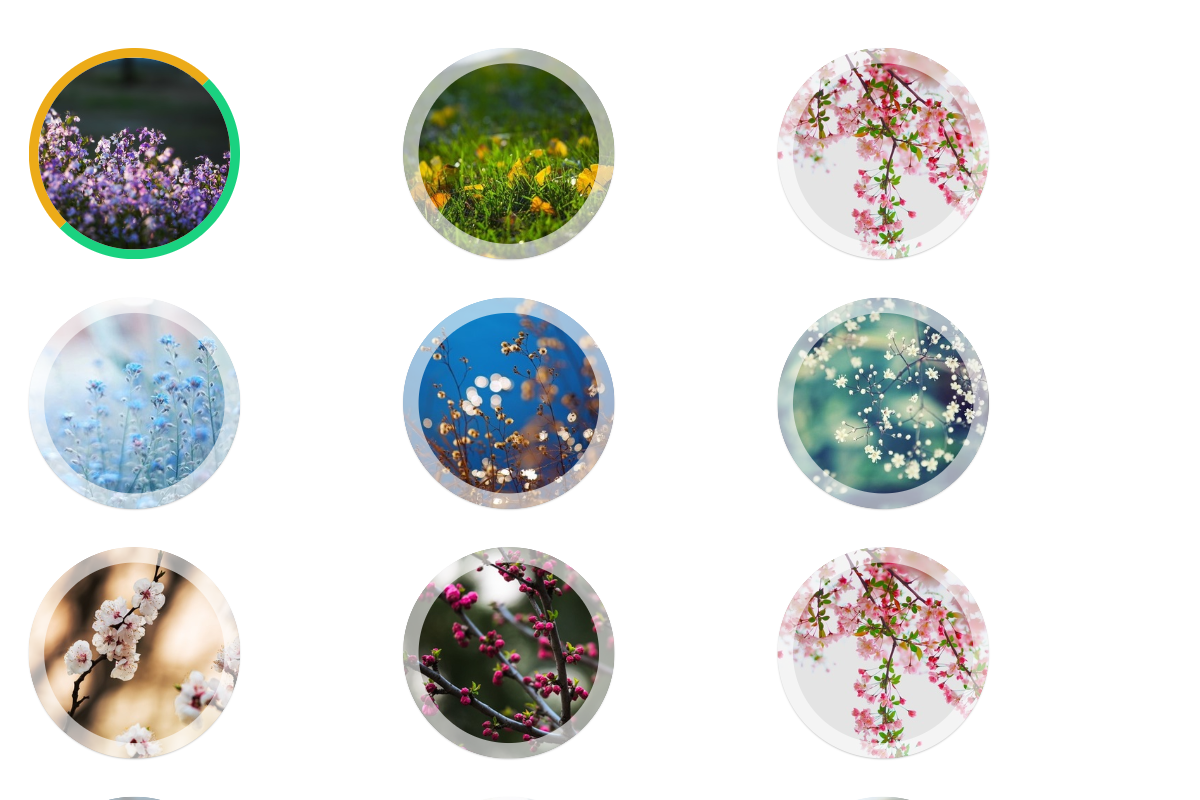
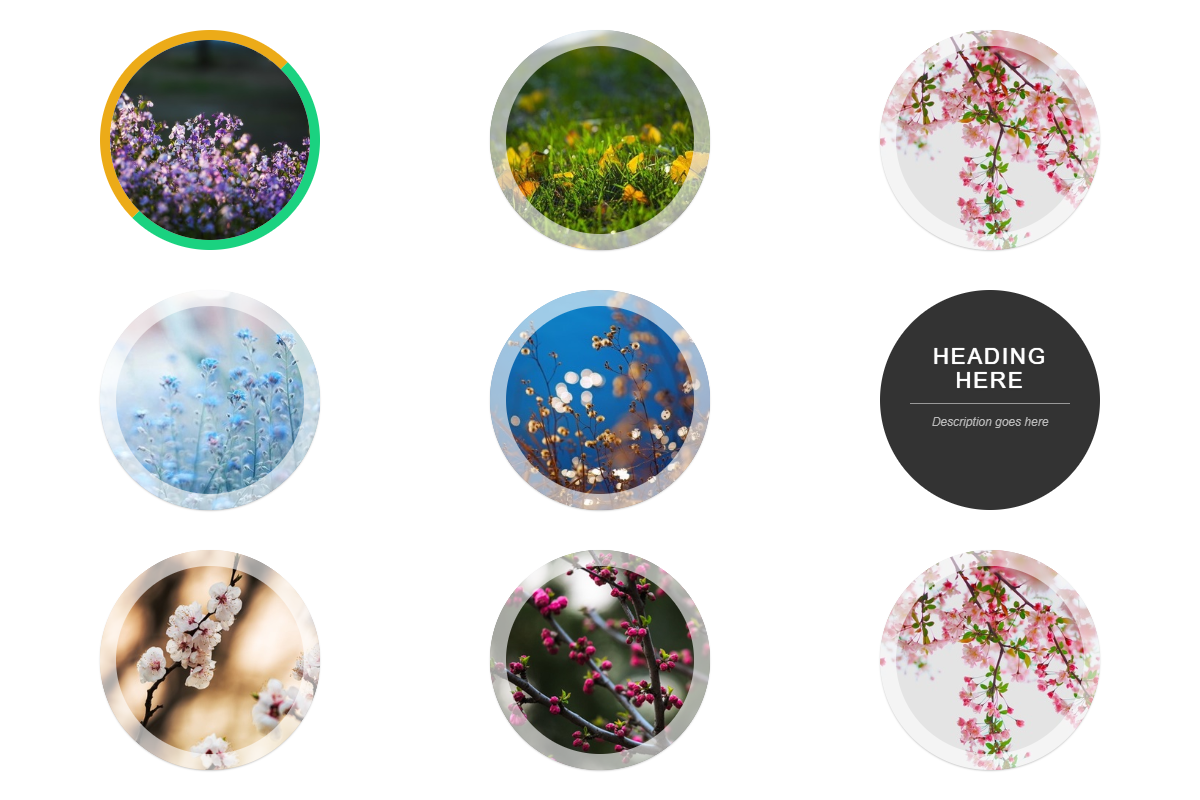
更新

diff --git a/css3/Circle/css/style.css b/css3/Circle/css/style.css
@@ -9,6 +9,16 @@
 .container .row .col-sm-6 {
   margin-top: 20px;
   margin-bottom: 20px;
+  display: -webkit-box;
+  display: -webkit-flex;
+  display: -moz-box;
+  display: -ms-flexbox;
+  display: flex;
+  -webkit-box-pack: center;
+  -webkit-justify-content: center;
+     -moz-box-pack: center;
+      -ms-flex-pack: center;
+          justify-content: center;
 }
 .container .row .col-sm-6 .box1 {
   width: 220px;

diff --git a/css3/Circle/css/style.less b/css3/Circle/css/style.less
@@ -7,6 +7,8 @@
         .col-sm-6 {
             margin-top: 20px;
             margin-bottom: 20px;
+            display: flex;
+            justify-content: center;
             .box1 {
                 width: 220px;
                 height: 220px;
